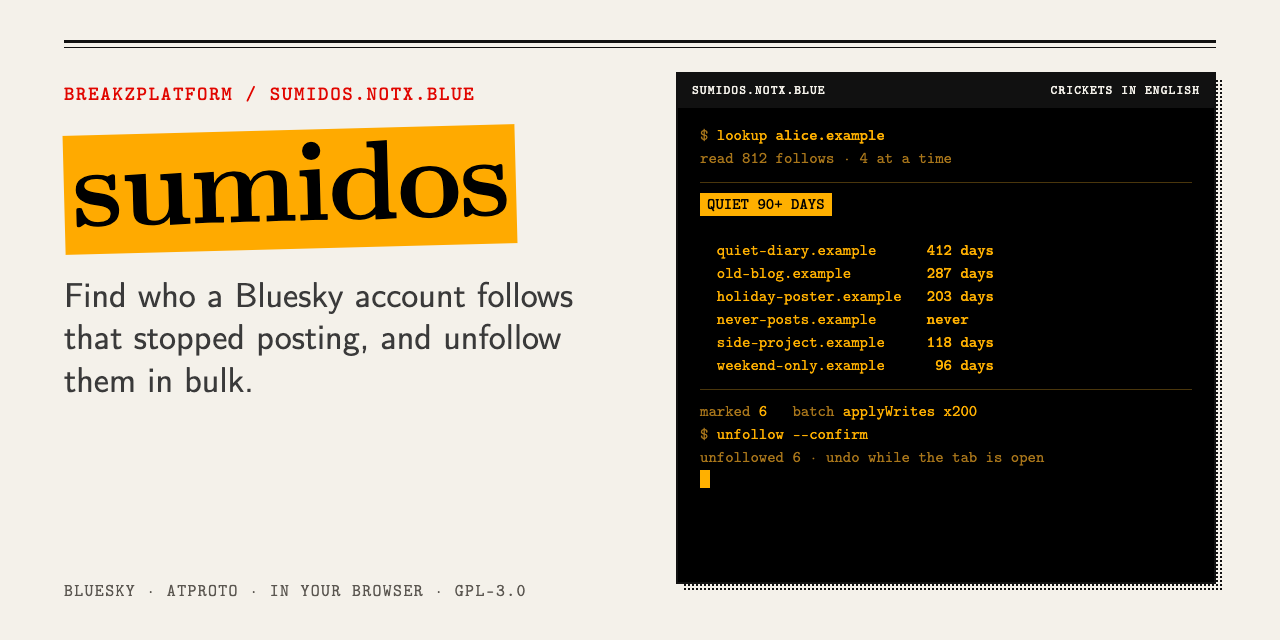
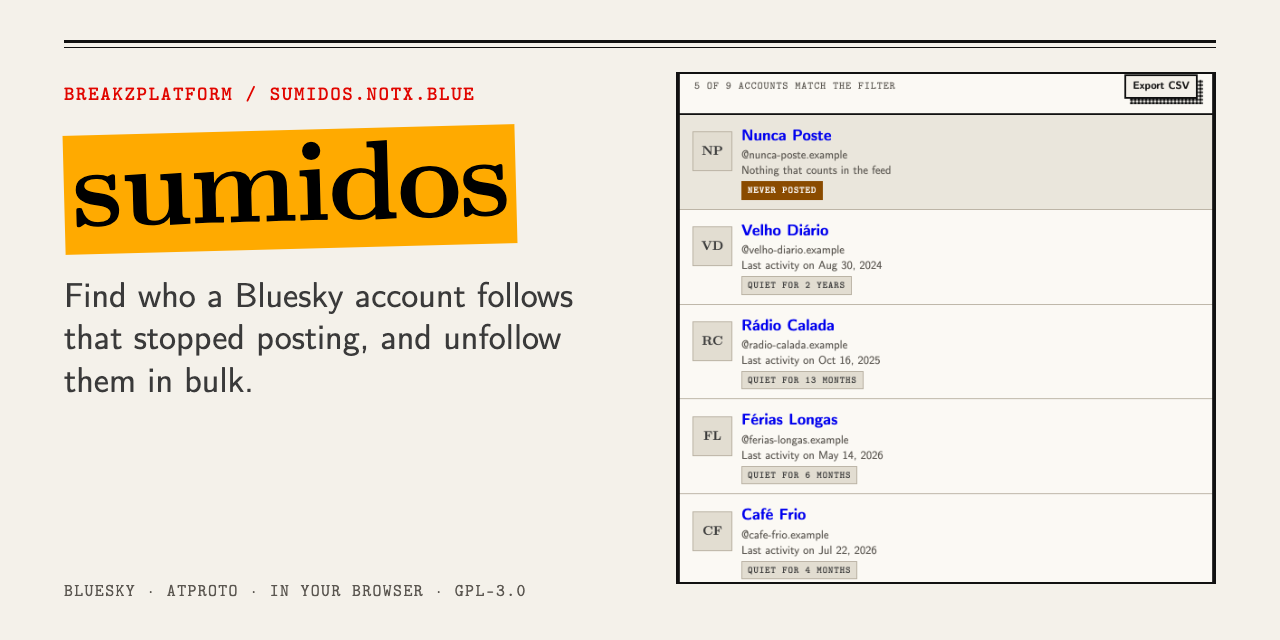
chore: show the real app in the social preview

diff --git a/scripts/github-social-preview.html b/scripts/github-social-preview.html
@@ -67,6 +67,8 @@ body{position:relative;font-family:var(--sans)}
 .cursor{display:inline-block;width:10px;height:18px;background:var(--t-1);vertical-align:-3px}
 .screen .link{color:var(--t-link);text-decoration:underline;text-underline-offset:3px;text-decoration-thickness:1px}
 .screen .label{margin-top:0}
+.shot{position:absolute;right:64px;top:72px;width:540px;height:512px;border:2px solid var(--ink);background:#fff;overflow:hidden}
+.shot img{display:block;width:100%;height:auto;margin-top:-282px}
 </style>
 </head>
 <body>
@@ -89,25 +91,6 @@ body{position:relative;font-family:var(--sans)}
     <div class="meta">Bluesky · atproto · in your browser · GPL-3.0</div>
   </div>
 
-  <div class="term cast" style="--shadow:#111111">
-    
-    <div class="bar"><span>sumidos.notx.blue</span><span>crickets in English</span></div>
-
-    
-<div class="screen"><span class="dim">$</span> lookup <span class="b">alice.example</span>
-<span class="dim">read 812 follows · 4 at a time</span>
-<div class="hr"></div><span class="label">QUIET 90+ DAYS</span>
-
-  quiet-diary.example      <span class="b">412 days</span>
-  old-blog.example         <span class="b">287 days</span>
-  holiday-poster.example   <span class="b">203 days</span>
-  never-posts.example      <span class="b">never</span>
-  side-project.example     <span class="b">118 days</span>
-  weekend-only.example     <span class="b"> 96 days</span>
-<div class="hr"></div><span class="dim">marked</span> 6   <span class="dim">batch</span> applyWrites x200
-<span class="dim">$</span> unfollow --confirm
-<span class="dim">unfollowed 6 · undo while the tab is open</span>
-<span class="cursor"></span></div>
-  </div>
+  <div class="shot cast" style="--shadow:#111111"><img src="github-social-preview-app.png" alt=""></div>
 </body>
 </html>
